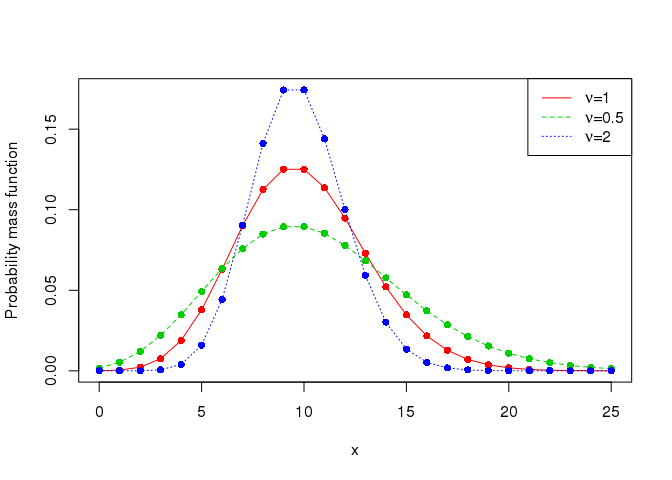
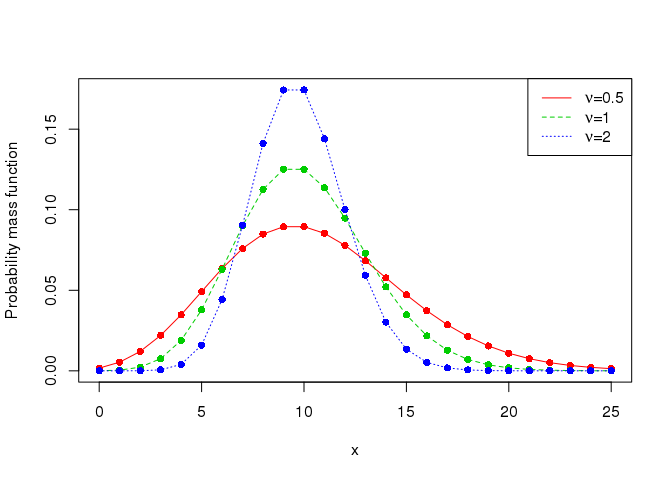
Changing the order of the legend in the graph

diff --git a/README.md b/README.md
@@ -83,12 +83,12 @@ Estimating the probability mass function
 # Compare densities of COM-Poisson distribution with different nu
  x <- 0:25
 
-matplot(x, cbind(dcmpois(x, mu=10, nu=1),
-                 dcmpois(x, mu=10, nu=0.5),
+matplot(x, cbind(dcmpois(x, mu=10, nu=0.5),
+                 dcmpois(x, mu=10, nu=1),
                   dcmpois(x, mu=10, nu=2)), type="o", col=2:4, pch=16, ylab="Probability mass function") 
 
-legend("topright", col=2:4, lty=1:3, c(expression(nu*"="*1),
-                                        expression(nu*"="*0.5),
+legend("topright", col=2:4, lty=1:3, c(expression(nu*"="*0.5),
+                                        expression(nu*"="*1),
                                         expression(nu*"="*2)))
 ```
 
